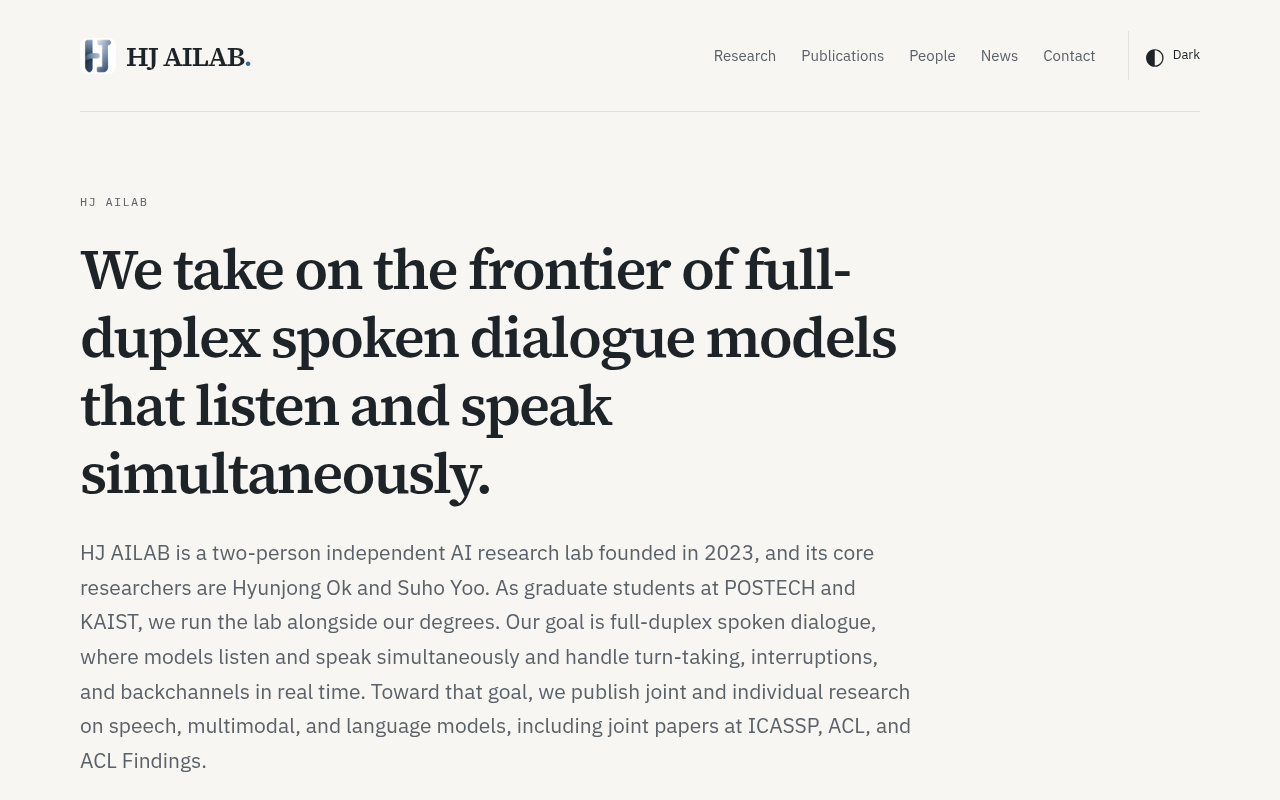
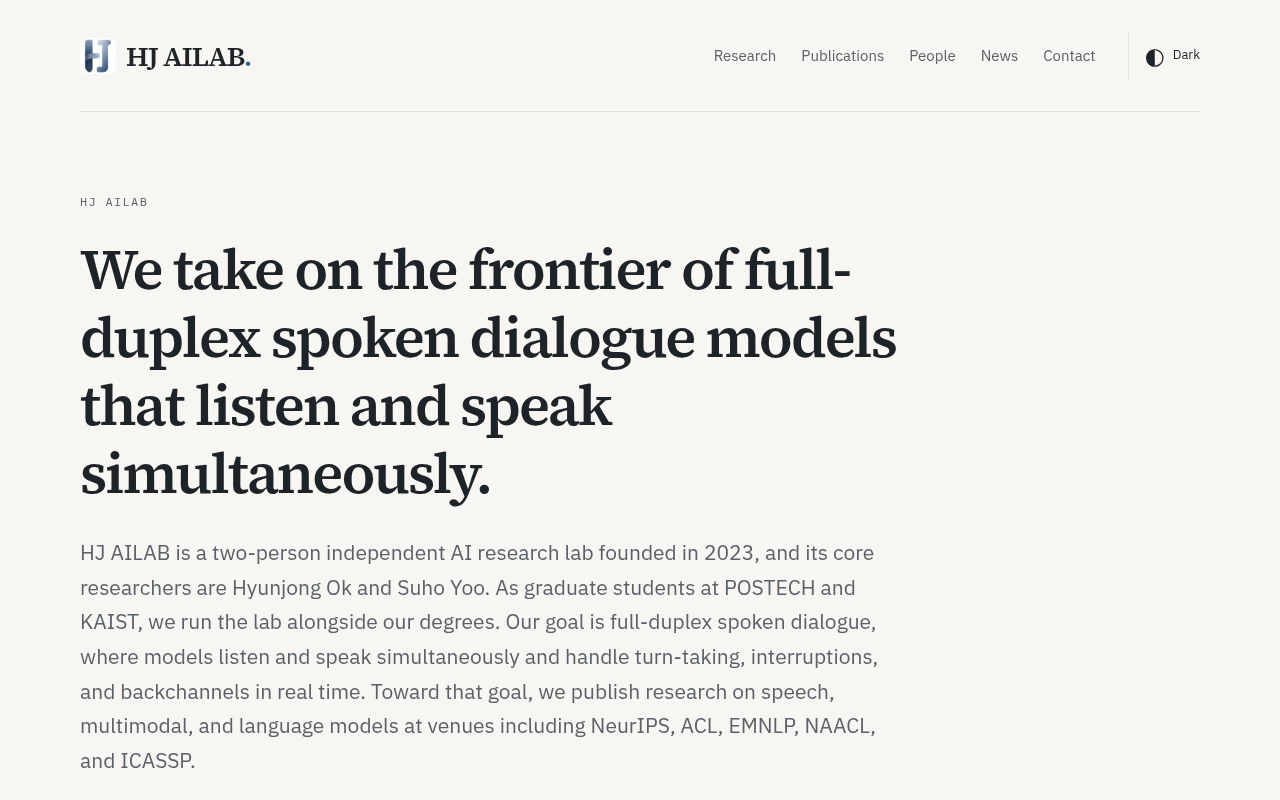
fix: list publication venues in intro; show fellowship as Selected
Claude-Session: https://claude.ai/code/session_01WiVJMR8H14WBepzVL3Xg7K

Changed region(s): [[0.0625, 0.8438, 0.7188, 0.9688]]

diff --git a/docs/build_report.md b/docs/build_report.md
@@ -1,6 +1,6 @@
 # Build report
 
-Generated: 2026-11-20T03:37:06.095Z
+Generated: 2026-11-20T03:43:32.138Z
 
 ## Static build
 
@@ -10,46 +10,46 @@ $ npm run build
 > hj-ailab-site@1.0.0 build
 > ASTRO_TELEMETRY_DISABLED=1 astro build
 
-12:37:07 [content] Syncing content
-12:37:07 [content] Synced content
-12:37:07 [types] Generated 41ms
-12:37:07 [build] output: "static"
-12:37:07 [build] mode: "static"
-12:37:07 [build] directory: /home2/r7play/hj-ailab.github.io/dist/
-12:37:07 [build] Collecting build info...
-12:37:07 [build] ✓ Completed in 57ms.
-12:37:07 [build] Building static entrypoints...
-12:37:07 [WARN] [vite] "isRemoteAllowed", "matchHostname", "matchPathname", "matchPort" and "matchProtocol" are imported from external module "@astrojs/internal-helpers/remote" but never used in "node_modules/astro/dist/assets/utils/remotePattern.js".
-12:37:08 [vite] ✓ built in 763ms
-12:37:08 [build] ✓ Completed in 799ms.
+12:43:33 [content] Syncing content
+12:43:33 [content] Synced content
+12:43:33 [types] Generated 39ms
+12:43:33 [build] output: "static"
+12:43:33 [build] mode: "static"
+12:43:33 [build] directory: /home2/r7play/hj-ailab.github.io/dist/
+12:43:33 [build] Collecting build info...
+12:43:33 [build] ✓ Completed in 54ms.
+12:43:33 [build] Building static entrypoints...
+12:43:33 [WARN] [vite] "isRemoteAllowed", "matchHostname", "matchPathname", "matchPort" and "matchProtocol" are imported from external module "@astrojs/internal-helpers/remote" but never used in "node_modules/astro/dist/assets/utils/remotePattern.js".
+12:43:35 [vite] ✓ built in 2.17s
+12:43:35 [build] ✓ Completed in 2.20s.
 
  building client (vite) 
-12:37:08 [vite] transforming...
-12:37:08 [vite] ✓ 4 modules transformed.
-12:37:08 [vite] rendering chunks...
-12:37:08 [vite] ✓ built in 23ms
+12:43:35 [vite] transforming...
+12:43:35 [vite] ✓ 4 modules transformed.
+12:43:35 [vite] rendering chunks...
+12:43:35 [vite] ✓ built in 22ms
 
  generating static routes 
-12:37:08 ▶ src/pages/404.astro
-12:37:08   └─ /404.html (+10ms) 
-12:37:08 ▶ src/pages/contact.astro
-12:37:08   └─ /contact/index.html (+2ms) 
-12:37:08 ▶ src/pages/index.astro
-12:37:08   └─ /index.html (+11ms) 
-12:37:08 ▶ src/pages/news/index.astro
-12:37:08   └─ /news/index.html (+2ms) 
-12:37:08 λ src/pages/news/rss.xml.ts
-12:37:08   └─ /news/rss.xml (+2ms) 
-12:37:08 ▶ src/pages/people.astro
-12:37:08   └─ /people/index.html (+2ms) 
-12:37:08 ▶ src/pages/publications.astro
-12:37:08   └─ /publications/index.html (+4ms) 
-12:37:08 ▶ src/pages/research.astro
-12:37:08   └─ /research/index.html (+3ms) 
-12:37:08 ✓ Completed in 111ms.
+12:43:35 ▶ src/pages/404.astro
+12:43:35   └─ /404.html (+10ms) 
+12:43:35 ▶ src/pages/contact.astro
+12:43:35   └─ /contact/index.html (+2ms) 
+12:43:35 ▶ src/pages/index.astro
+12:43:35   └─ /index.html (+11ms) 
+12:43:35 ▶ src/pages/news/index.astro
+12:43:35   └─ /news/index.html (+1ms) 
+12:43:35 λ src/pages/news/rss.xml.ts
+12:43:35   └─ /news/rss.xml (+1ms) 
+12:43:35 ▶ src/pages/people.astro
+12:43:35   └─ /people/index.html (+2ms) 
+12:43:35 ▶ src/pages/publications.astro
+12:43:35   └─ /publications/index.html (+3ms) 
+12:43:35 ▶ src/pages/research.astro
+12:43:35   └─ /research/index.html (+2ms) 
+12:43:35 ✓ Completed in 103ms.
 
-12:37:08 [build] 7 page(s) built in 1.00s
-12:37:08 [build] Complete!
+12:43:35 [build] 7 page(s) built in 2.40s
+12:43:35 [build] Complete!
 
 exit code: 0
 ```
@@ -162,24 +162,24 @@ $ npm run build
 > hj-ailab-site@1.0.0 build
 > ASTRO_TELEMETRY_DISABLED=1 astro build
 
-12:37:30 [content] Syncing content
-12:37:30 [content] Synced content
-12:37:30 [types] Generated 38ms
-12:37:30 [build] output: "static"
-12:37:30 [build] mode: "static"
-12:37:30 [build] directory: /home2/r7play/hj-ailab.github.io/dist/
-12:37:30 [build] Collecting build info...
-12:37:30 [build] ✓ Completed in 53ms.
-12:37:30 [build] Building static entrypoints...
-12:37:30 [WARN] [vite] "isRemoteAllowed", "matchHostname", "matchPathname", "matchPort" and "matchProtocol" are imported from external module "@astrojs/internal-helpers/remote" but never used in "node_modules/astro/dist/assets/utils/remotePattern.js".
-12:37:31 [vite] ✓ built in 718ms
-12:37:31 [build] ✓ Completed in 752ms.
+12:43:44 [content] Syncing content
+12:43:44 [content] Synced content
+12:43:44 [types] Generated 39ms
+12:43:44 [build] output: "static"
+12:43:44 [build] mode: "static"
+12:43:44 [build] directory: /home2/r7play/hj-ailab.github.io/dist/
+12:43:44 [build] Collecting build info...
+12:43:44 [build] ✓ Completed in 54ms.
+12:43:44 [build] Building static entrypoints...
+12:43:44 [WARN] [vite] "isRemoteAllowed", "matchHostname", "matchPathname", "matchPort" and "matchProtocol" are imported from external module "@astrojs/internal-helpers/remote" but never used in "node_modules/astro/dist/assets/utils/remotePattern.js".
+12:43:44 [vite] ✓ built in 742ms
+12:43:44 [build] ✓ Completed in 776ms.
 
  building client (vite) 
-12:37:31 [vite] transforming...
-12:37:31 [vite] ✓ 4 modules transformed.
-12:37:31 [vite] rendering chunks...
-12:37:31 [vite] ✓ built in 22ms
+12:43:44 [vite] transforming...
+12:43:44 [vite] ✓ 4 modules transformed.
+12:43:44 [vite] rendering chunks...
+12:43:44 [vite] ✓ built in 23ms
 
  generating static routes 
 src/data/publications.yaml
@@ -202,24 +202,24 @@ $ npm run build
 > hj-ailab-site@1.0.0 build
 > ASTRO_TELEMETRY_DISABLED=1 astro build
 
-12:37:32 [content] Syncing content
-12:37:32 [content] Synced content
-12:37:32 [types] Generated 58ms
-12:37:32 [build] output: "static"
-12:37:32 [build] mode: "static"
-12:37:32 [build] directory: /home2/r7play/hj-ailab.github.io/dist/
-12:37:32 [build] Collecting build info...
-12:37:32 [build] ✓ Completed in 73ms.
-12:37:32 [build] Building static entrypoints...
-12:37:32 [WARN] [vite] "isRemoteAllowed", "matchHostname", "matchPathname", "matchPort" and "matchProtocol" are imported from external module "@astrojs/internal-helpers/remote" but never used in "node_modules/astro/dist/assets/utils/remotePattern.js".
-12:37:33 [vite] ✓ built in 700ms
-12:37:33 [build] ✓ Completed in 734ms.
+12:43:46 [content] Syncing content
+12:43:46 [content] Synced content
+12:43:46 [types] Generated 42ms
+12:43:46 [build] output: "static"
+12:43:46 [build] mode: "static"
+12:43:46 [build] directory: /home2/r7play/hj-ailab.github.io/dist/
+12:43:46 [build] Collecting build info...
+12:43:46 [build] ✓ Completed in 59ms.
+12:43:46 [build] Building static entrypoints...
+12:43:46 [WARN] [vite] "isRemoteAllowed", "matchHostname", "matchPathname", "matchPort" and "matchProtocol" are imported from external module "@astrojs/internal-helpers/remote" but never used in "node_modules/astro/dist/assets/utils/remotePattern.js".
+12:43:46 [vite] ✓ built in 776ms
+12:43:46 [build] ✓ Completed in 813ms.
 
  building client (vite) 
-12:37:33 [vite] transforming...
-12:37:33 [vite] ✓ 4 modules transformed.
-12:37:33 [vite] rendering chunks...
-12:37:33 [vite] ✓ built in 20ms
+12:43:46 [vite] transforming...
+12:43:46 [vite] ✓ 4 modules transformed.
+12:43:46 [vite] rendering chunks...
+12:43:46 [vite] ✓ built in 22ms
 
  generating static routes 
 src/data/publications.yaml
@@ -242,24 +242,24 @@ $ npm run build
 > hj-ailab-site@1.0.0 build
 > ASTRO_TELEMETRY_DISABLED=1 astro build
 
-12:37:34 [content] Syncing content
-12:37:34 [content] Synced content
-12:37:34 [types] Generated 38ms
-12:37:34 [build] output: "static"
-12:37:34 [build] mode: "static"
-12:37:34 [build] directory: /home2/r7play/hj-ailab.github.io/dist/
-12:37:34 [build] Collecting build info...
-12:37:34 [build] ✓ Completed in 54ms.
-12:37:34 [build] Building static entrypoints...
-12:37:34 [WARN] [vite] "isRemoteAllowed", "matchHostname", "matchPathname", "matchPort" and "matchProtocol" are imported from external module "@astrojs/internal-helpers/remote" but never used in "node_modules/astro/dist/assets/utils/remotePattern.js".
-12:37:35 [vite] ✓ built in 707ms
-12:37:35 [build] ✓ Completed in 741ms.
+12:43:48 [content] Syncing content
+12:43:48 [content] Synced content
+12:43:48 [types] Generated 60ms
+12:43:48 [build] output: "static"
+12:43:48 [build] mode: "static"
+12:43:48 [build] directory: /home2/r7play/hj-ailab.github.io/dist/
+12:43:48 [build] Collecting build info...
+12:43:48 [build] ✓ Completed in 82ms.
+12:43:48 [build] Building static entrypoints...
+12:43:48 [WARN] [vite] "isRemoteAllowed", "matchHostname", "matchPathname", "matchPort" and "matchProtocol" are imported from external module "@astrojs/internal-helpers/remote" but never used in "node_modules/astro/dist/assets/utils/remotePattern.js".
+12:43:49 [vite] ✓ built in 1.10s
+12:43:49 [build] ✓ Completed in 1.14s.
 
  building client (vite) 
-12:37:35 [vite] transforming...
-12:37:35 [vite] ✓ 4 modules transformed.
-12:37:35 [vite] rendering chunks...
-12:37:35 [vite] ✓ built in 20ms
+12:43:49 [vite] transforming...
+12:43:49 [vite] ✓ 4 modules transformed.
+12:43:49 [vite] rendering chunks...
+12:43:49 [vite] ✓ built in 20ms
 
  generating static routes 
 src/data/honors.yaml
@@ -282,24 +282,24 @@ $ npm run build
 > hj-ailab-site@1.0.0 build
 > ASTRO_TELEMETRY_DISABLED=1 astro build
 
-12:37:36 [content] Syncing content
-12:37:36 [content] Synced content
-12:37:36 [types] Generated 38ms
-12:37:36 [build] output: "static"
-12:37:36 [build] mode: "static"
-12:37:36 [build] directory: /home2/r7play/hj-ailab.github.io/dist/
-12:37:36 [build] Collecting build info...
-12:37:36 [build] ✓ Completed in 55ms.
-12:37:36 [build] Building static entrypoints...
-12:37:36 [WARN] [vite] "isRemoteAllowed", "matchHostname", "matchPathname", "matchPort" and "matchProtocol" are imported from external module "@astrojs/internal-helpers/remote" but never used in "node_modules/astro/dist/assets/utils/remotePattern.js".
-12:37:37 [vite] ✓ built in 750ms
-12:37:37 [build] ✓ Completed in 785ms.
+12:43:50 [content] Syncing content
+12:43:50 [content] Synced content
+12:43:50 [types] Generated 39ms
+12:43:50 [build] output: "static"
+12:43:50 [build] mode: "static"
+12:43:50 [build] directory: /home2/r7play/hj-ailab.github.io/dist/
+12:43:50 [build] Collecting build info...
+12:43:50 [build] ✓ Completed in 54ms.
+12:43:50 [build] Building static entrypoints...
+12:43:51 [WARN] [vite] "isRemoteAllowed", "matchHostname", "matchPathname", "matchPort" and "matchProtocol" are imported from external module "@astrojs/internal-helpers/remote" but never used in "node_modules/astro/dist/assets/utils/remotePattern.js".
+12:43:51 [vite] ✓ built in 705ms
+12:43:51 [build] ✓ Completed in 740ms.
 
  building client (vite) 
-12:37:37 [vite] transforming...
-12:37:37 [vite] ✓ 4 modules transformed.
-12:37:37 [vite] rendering chunks...
-12:37:37 [vite] ✓ built in 21ms
+12:43:51 [vite] transforming...
+12:43:51 [vite] ✓ 4 modules transformed.
+12:43:51 [vite] rendering chunks...
+12:43:51 [vite] ✓ built in 23ms
 
  generating static routes 
 src/data/honors.yaml
@@ -322,24 +322,24 @@ $ npm run build
 > hj-ailab-site@1.0.0 build
 > ASTRO_TELEMETRY_DISABLED=1 astro build
 
-12:37:38 [content] Syncing content
-12:37:38 [content] Synced content
-12:37:38 [types] Generated 39ms
-12:37:38 [build] output: "static"
-12:37:38 [build] mode: "static"
-12:37:38 [build] directory: /home2/r7play/hj-ailab.github.io/dist/
-12:37:38 [build] Collecting build info...
-12:37:38 [build] ✓ Completed in 54ms.
-12:37:38 [build] Building static entrypoints...
-12:37:38 [WARN] [vite] "isRemoteAllowed", "matchHostname", "matchPathname", "matchPort" and "matchProtocol" are imported from external module "@astrojs/internal-helpers/remote" but never used in "node_modules/astro/dist/assets/utils/remotePattern.js".
-12:37:39 [vite] ✓ built in 739ms
-12:37:39 [build] ✓ Completed in 773ms.
+12:43:52 [content] Syncing content
+12:43:52 [content] Synced content
+12:43:52 [types] Generated 39ms
+12:43:52 [build] output: "static"
+12:43:52 [build] mode: "static"
+12:43:52 [build] directory: /home2/r7play/hj-ailab.github.io/dist/
+12:43:52 [build] Collecting build info...
+12:43:52 [build] ✓ Completed in 55ms.
+12:43:52 [build] Building static entrypoints...
+12:43:53 [WARN] [vite] "isRemoteAllowed", "matchHostname", "matchPathname", "matchPort" and "matchProtocol" are imported from external module "@astrojs/internal-helpers/remote" but never used in "node_modules/astro/dist/assets/utils/remotePattern.js".
+12:43:53 [vite] ✓ built in 750ms
+12:43:53 [build] ✓ Completed in 784ms.
 
  building client (vite) 
-12:37:39 [vite] transforming...
-12:37:39 [vite] ✓ 4 modules transformed.
-12:37:39 [vite] rendering chunks...
-12:37:39 [vite] ✓ built in 21ms
+12:43:53 [vite] transforming...
+12:43:53 [vite] ✓ 4 modules transformed.
+12:43:53 [vite] rendering chunks...
+12:43:53 [vite] ✓ built in 21ms
 
  generating static routes 
 src/data/service.yaml
@@ -362,46 +362,46 @@ $ npm run build
 > hj-ailab-site@1.0.0 build
 > ASTRO_TELEMETRY_DISABLED=1 astro build
 
-12:37:40 [content] Syncing content
-12:37:40 [content] Synced content
-12:37:40 [types] Generated 39ms
-12:37:40 [build] output: "static"
-12:37:40 [build] mode: "static"
-12:37:40 [build] directory: /home2/r7play/hj-ailab.github.io/dist/
-12:37:40 [build] Collecting build info...
-12:37:40 [build] ✓ Completed in 54ms.
-12:37:40 [build] Building static entrypoints...
-12:37:40 [WARN] [vite] "isRemoteAllowed", "matchHostname", "matchPathname", "matchPort" and "matchProtocol" are imported from external module "@astrojs/internal-helpers/remote" but never used in "node_modules/astro/dist/assets/utils/remotePattern.js".
-12:37:41 [vite] ✓ built in 744ms
-12:37:41 [build] ✓ Completed in 777ms.
+12:43:54 [content] Syncing content
+12:43:54 [content] Synced content
+12:43:54 [types] Generated 39ms
+12:43:54 [build] output: "static"
+12:43:54 [build] mode: "static"
+12:43:54 [build] directory: /home2/r7play/hj-ailab.github.io/dist/
+12:43:54 [build] Collecting build info...
+12:43:54 [build] ✓ Completed in 55ms.
+12:43:54 [build] Building static entrypoints...
+12:43:55 [WARN] [vite] "isRemoteAllowed", "matchHostname", "matchPathname", "matchPort" and "matchProtocol" are imported from external module "@astrojs/internal-helpers/remote" but never used in "node_modules/astro/dist/assets/utils/remotePattern.js".
+12:43:55 [vite] ✓ built in 753ms
+12:43:55 [build] ✓ Completed in 786ms.
 
  building client (vite) 
-12:37:41 [vite] transforming...
-12:37:41 [vite] ✓ 4 modules transformed.
-12:37:41 [vite] rendering chunks...
-12:37:41 [vite] ✓ built in 22ms
+12:43:55 [vite] transforming...
+12:43:55 [vite] ✓ 4 modules transformed.
+12:43:55 [vite] rendering chunks...
+12:43:55 [vite] ✓ built in 22ms
 
  generating static routes 
-12:37:41 ▶ src/pages/404.astro
-12:37:41   └─ /404.html (+11ms) 
-12:37:41 ▶ src/pages/contact.astro
-12:37:41   └─ /contact/index.html (+2ms) 
-12:37:41 ▶ src/pages/index.astro
-12:37:41   └─ /index.html (+11ms) 
-12:37:41 ▶ src/pages/news/index.astro
-12:37:41   └─ /news/index.html (+1ms) 
-12:37:41 λ src/pages/news/rss.xml.ts
-12:37:41   └─ /news/rss.xml (+2ms) 
-12:37:41 ▶ src/pages/people.astro
-12:37:41   └─ /people/index.html (+2ms) 
-12:37:41 ▶ src/pages/publications.astro
-12:37:41   └─ /publications/index.html (+4ms) 
-12:37:41 ▶ src/pages/research.astro
-12:37:41   └─ /research/index.html (+5ms) 
-12:37:41 ✓ Completed in 109ms.
+12:43:55 ▶ src/pages/404.astro
+12:43:55   └─ /404.html (+12ms) 
+12:43:55 ▶ src/pages/contact.astro
+12:43:55   └─ /contact/index.html (+2ms) 
+12:43:55 ▶ src/pages/index.astro
+12:43:55   └─ /index.html (+12ms) 
+12:43:55 ▶ src/pages/news/index.astro
+12:43:55   └─ /news/index.html (+2ms) 
+12:43:55 λ src/pages/news/rss.xml.ts
+12:43:55   └─ /news/rss.xml (+2ms) 
+12:43:55 ▶ src/pages/people.astro
+12:43:55   └─ /people/index.html (+2ms) 
+12:43:55 ▶ src/pages/publications.astro
+12:43:55   └─ /publications/index.html (+4ms) 
+12:43:55 ▶ src/pages/research.astro
+12:43:55   └─ /research/index.html (+3ms) 
+12:43:55 ✓ Completed in 118ms.
 
-12:37:41 [build] 7 page(s) built in 976ms
-12:37:41 [build] Complete!
+12:43:55 [build] 7 page(s) built in 995ms
+12:43:55 [build] Complete!
 
 exit code: 0
 ```
